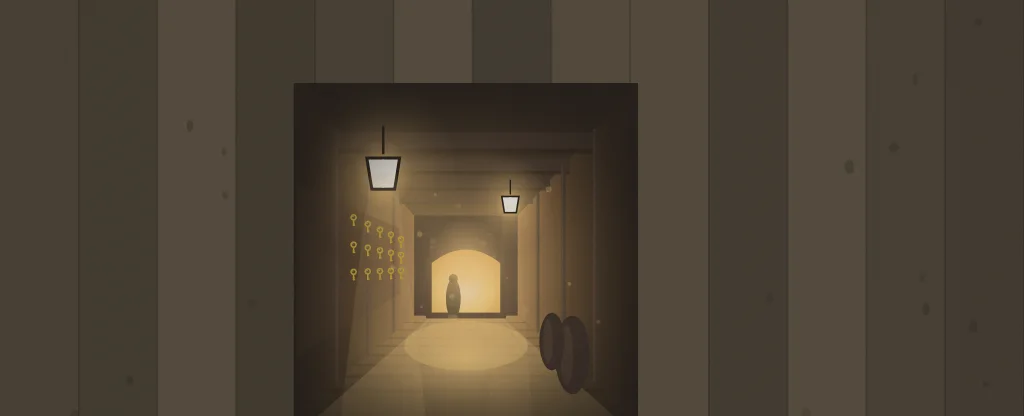
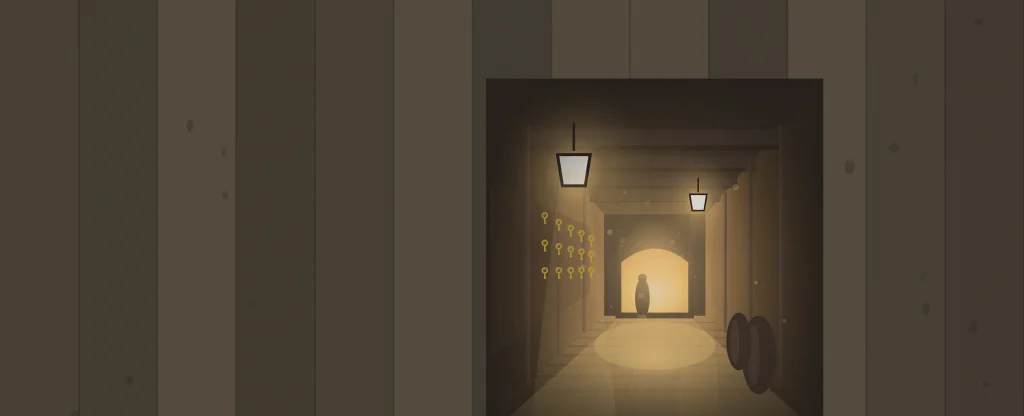
fix(labs/storybook): the arch and the rank finally meet — family rises framed in the lit archway
The arch cut in the art straddled the spine (x -0.05) while the rank
stood at the declared +0.26; the designed climax never happened. Both
move to x 0.145 — a measured fold-flat wall, not taste: the rank's
hinge chord (0.16*cos30 = 0.1386) must lie in x >= 0 at book-closed,
which kills the ruled 0.11. Aperture re-derived {centerX 0.145,
halfW 0.15 (the paint always cut 0.148), apexH 0.25 (the balcony deck
hides the wall above ~0.25 at the reading camera — a 0.30 crown
rendered as a headless garage door)}.

Single owner: aperture gains centerX in the declaration; the bench's
arch gates derive from it, and a new D gate loads the shipped atlas
sprite, finds the alpha hole's centroid/half-width/crown, and asserts
them against the declaration within 0.02 — run against the old art it
reproduces the original drift exactly. R gates hold at the new x
(travel 125.9 px = 14.0% frame height). One pre-existing test failure
incidentally fixed (rank no longer overlaps the dissolve rack).

Changed region(s): [[0.2812, 0.1875, 0.8125, 1.0]]

diff --git a/components/labs/storybook/content.ts b/components/labs/storybook/content.ts
@@ -227,21 +227,55 @@ const CH1_LAYERS: readonly SceneLayer[] = [
       // THE HALL — the wall that breaks the page. Its facade plate is the
       // DIE-CUT CARRIAGE ARCH: aperture in this engine is alpha in the painted
       // art, not punched geometry, so the hole is baked by generate-art.mjs and
-      // the `aperture` field records what the painter must cut. THE ARCH IS
-      // CENTRED AT x = +0.26 (world), not on the spine: it has to sit where the
-      // arrival rank can physically stand, and a rank centred on the gutter
-      // would have to straddle both pages. Left masonry 0.10 to the gutter,
-      // right masonry 0.10 to the facade edge.
+      // the `aperture` field records what the painter must cut. THIS FIELD IS
+      // THE SINGLE OWNER of where the hole is (popup-keepstack.ts KeepStorySpec
+      // documents the covenant): the bench derives its arch gates from it AND
+      // re-measures the baked alpha centroid against `centerX`, and the painter
+      // keeps a mirrored constant that names this line as the owner.
+      //
+      // THE ARCH IS CENTRED AT x = +0.145 (world) — plate u 0.6394, since the
+      // plate spans x -0.52..0.52 across u 0..1. Arch and rank now share ONE
+      // number, and it is squeezed from three sides:
+      //  * it cannot sit on the spine (where the paint used to cut it, x -0.05)
+      //    because the arrival rank that has to stand IN it is a right-page
+      //    piece; a rank centred on the gutter would straddle both pages.
+      //  * it cannot sit at the rank's old x +0.26 either: the balcony deck
+      //    spans only x -0.30..0.30, so an arch at 0.26 +- 0.15 would run out
+      //    from under the gallery that is supposed to cantilever over it. That
+      //    caps centerX + halfW at 0.30.
+      //  * AND IT CANNOT GO BELOW 0.139. The rank's hinge chord is
+      //    (width/2)*cos(hingeDeg) = 0.16*cos30 = 0.1386 to each side of
+      //    hingeX, and at book-closed that chord lies IN the right page, where
+      //    x >= 0 is the fold-flat law. Any common centre under 0.1386 hangs
+      //    the closed die over the gutter — measured -0.029 at the 0.11 this
+      //    round was first cut at, which failed F and W in e4s2-reach.mjs.
+      // 0.145 is 0.006 clear of that floor and 0.005 clear of the deck edge:
+      // mouth x -0.005..0.295, the left jamb landing on the spine crease.
+      // Widening halfW to 0.16 (the old declared value) would push the mouth
+      // past the deck; 0.15 keeps 0.011 of jamb clearance around the die, which
+      // is what a 0.32 die inside a 0.30 mouth can afford.
       // THE TRAP (generate-art.mjs:7865): a gate you can see through is only
       // worth having when there is something behind it. The cap stays SOLID at
       // PLATE_LIFT behind the plate and must be painted as a warm lamplit
       // passage receding into the inn — and the arrival rank rises INSIDE the
       // hole so real moving geometry occupies it.
+      //   apexH 0.25 IS A CEILING SET BY THE BALCONY, not by the figure. The
+      // first instinct was to cut the crown at the rank's 0.30 standing height
+      // so the family passes cleanly under it. Baked and captured, that hole
+      // rendered as a rectangular garage door: the deck cantilevers over the
+      // arch and the reading camera looks DOWN, so it hides the wall above
+      // roughly y 0.25 and took the pointed head, the voussoir ring and the
+      // keystone with it. The crown stays in the band the reader can see; the
+      // family is 0.05 taller than it and 0.14 fore of the plate, so at full
+      // pull the heads cross the ring and read as stepping THROUGH the arch —
+      // and at the rest angle (36deg) they sit at y 0.176, well inside.
+      // Mouth: 0.30 wide x 0.25 tall over a 0.32-wide die whose skewed chord
+      // measures 0.277 across.
       {
         key: 'hall', a: 0.52, height: 0.36, z0: -0.23, z1: 0.23,
         roof: 'flat', capFront: true, capBack: true,
         plate: { width: 1.04, height: 0.36 },
-        aperture: { halfW: 0.16, apexH: 0.3 },
+        aperture: { centerX: 0.145, halfW: 0.15, apexH: 0.25 },
         stage: { t0: 0.1, t1: 0.32 },
       },
       // THE GUEST FLOOR — the star. Heavy dark timber over warm cream plaster,
@@ -321,10 +355,22 @@ const CH1_LAYERS: readonly SceneLayer[] = [
   // PAYOFF ONE, phase 0.00-0.55 — THE ARRIVAL RANK. The innkeeper with a
   // lantern, spouse with the enchanted ledger, waving child, dog: one linked
   // die-cut chain stood up by a hidden strip under the floor (law L5). It
-  // stands INSIDE THE CARRIAGE ARCH — standing x 0.121..0.399 against the
-  // aperture's 0.10..0.42, 0.30 tall under a 0.30 keystone — so the die-cut
+  // stands INSIDE THE CARRIAGE ARCH — standing x 0.006..0.284 against the
+  // aperture's -0.005..0.295, 0.30 tall under a 0.30 keystone — so the die-cut
   // hole has real moving geometry in it, and the gallery deck at y 0.36 hangs
   // directly over the family's heads.
+  //   THE x MOVED, and the whole x triple moved with it. Rounds 1-3 declared
+  // this rank at hingeX 0.26 to match an arch the comments said was at +0.26
+  // while the PAINT cut it at -0.05, so the family rose beside the hole instead
+  // of inside it. Arch and rank now meet at the one owned number,
+  // `aperture.centerX` = 0.145: hingeX 0.145, and anchor/slot shifted by the
+  // same -0.115 so the strip geometry is congruent, not re-tuned. 0.145 is also
+  // the FLOOR the fold-flat law leaves: at hingeX 0.1386 the closed die's own
+  // hinge chord touches the gutter (see the aperture note above).
+  // Every z, the -30 skew and the [36,90] travel are BIT-IDENTICAL — the
+  // z-clearance and visibility findings below are x-independent, and the R
+  // gates re-measure at the new x (travel is unchanged: the skew, not the
+  // station, is what the camera reads).
   //   hingeZ 0.37, not the 0.30 the first pass tried: the hall's FRONT CAP
   // bulges its crease fore to z1 + a*cos(beta/2) as the book leaves full open,
   // which at beta 165deg puts the cap at z 0.298 — a standing rank hinged at
@@ -354,7 +400,7 @@ const CH1_LAYERS: readonly SceneLayer[] = [
   // `driveFrom` is the delayed double action: this piece has no channel of its
   // own, it reads the dissolve's and remaps it through [0, 0.55], so the reader
   // pulling the brass tab raises the family first and flips the floor second.
-  { id: 'ch1-arrival-rank', kind: 'midground', role: 'figure', mech: 'stripflap', side: 'right', anchor: 0.22, anchorZ: 0.37, slot: 0.3, slotZ: 0.37, hingeX: 0.26, hingeZ: 0.37, hingeDeg: -30, width: 0.32, height: 0.3, restDeg: 36, travelDeg: [36, 90], driveFrom: { channel: 'ch1-arrival-floor', phase: [0, 0.55] } },
+  { id: 'ch1-arrival-rank', kind: 'midground', role: 'figure', mech: 'stripflap', side: 'right', anchor: 0.105, anchorZ: 0.37, slot: 0.185, slotZ: 0.37, hingeX: 0.145, hingeZ: 0.37, hingeDeg: -30, width: 0.32, height: 0.3, restDeg: 36, travelDeg: [36, 90], driveFrom: { channel: 'ch1-arrival-floor', phase: [0, 0.55] } },
   // PAYOFF TWO, phase 0.40-1.00 — THE COURTYARD. A page-flat venetian rack the
   // reader flips A->B: cold slate cobbles, empty, to lamplight pools, cast
   // shadows, wheel-tracks and a trail of brass keys leading to the arch. The

diff --git a/components/labs/storybook/book/popup-keepstack.ts b/components/labs/storybook/book/popup-keepstack.ts
@@ -102,11 +102,27 @@ export type KeepStorySpec = {
    *  (popup-oanave.ts). Aperture in this engine is ALPHA IN THE PAINTED ART,
    *  not punched geometry: this field cuts nothing, it records for the painter
    *  and for the covenant test WHERE the hole in this story's facade plate is.
-   *  `halfW` across the plate crease, `apexH` up the plate from its base edge,
-   *  both in world units and both inside the plate's own width/2 x height box.
+   *
+   *  THIS DECLARATION IS THE SINGLE OWNER OF THE HOLE'S POSITION. It drifted
+   *  once — the painter cut at world x -0.05 while content, its comments and
+   *  the bench all said +0.26, so the figure meant to rise INSIDE the arch rose
+   *  next to it and nobody noticed for three rounds. Consumers must now DERIVE
+   *  from these three numbers, never restate them:
+   *    - `scripts/storybook/bench/e4s2-reach.mjs` reads them for its arch gates
+   *      AND re-measures the baked alpha centroid of the generated plate
+   *      against `centerX`, so art/declaration drift fails the bench;
+   *    - `scripts/storybook/generate-art.mjs` cannot import TS, so it keeps a
+   *      mirrored `APERTURE` constant that names this field as the owner.
+   *
+   *  `centerX` is the hole's centre in WORLD x on the assembled plate: the
+   *  plate spans x -width/2 .. +width/2 across art u 0..1, so
+   *  `u = 0.5 + centerX / plate.width`. `halfW` is across the plate crease and
+   *  `apexH` up the plate from its base edge (art v measured from the BOTTOM,
+   *  so `v = apexH / plate.height`) — all three in world units, all three
+   *  inside the plate's own width/2 x height box.
    *  The box's front CAP stays solid behind the plate at PLATE_LIFT, so the
    *  hole shows real paper at a real depth offset rather than the background. */
-  aperture?: { halfW: number; apexH: number }
+  aperture?: { centerX: number; halfW: number; apexH: number }
 }
 
 /** The jutting gold dispatch balcony — a deck riding the ground story's flat

diff --git a/components/labs/storybook/book/popup-keepstack-merged.tsx b/components/labs/storybook/book/popup-keepstack-merged.tsx
@@ -182,9 +182,12 @@ export function keepSlots(layer: SceneLayer & KeepStackGeom): Slot[] {
         // die-cut arch is, so the one surface the reader is meant to see through
         // the hole showed its two darkest margins (measured: the arch read as
         // near-black murk at rest). With the split the `-side` painting is drawn
-        // ONCE across the whole cap and its vanishing point (u 0.455) lands
-        // inside the aperture (plate u 0.311..0.599), as innPassage's own header
-        // note always assumed. Only the backbone (asset null) still tiles full.
+        // ONCE across the whole cap, so cap u IS plate u and the passage's
+        // vanishing axis lands inside the aperture by construction: both are
+        // derived from the SAME declared `aperture.centerX` (currently x +0.11,
+        // u 0.606, mouth u 0.452..0.760), which is the field the bench's D gate
+        // re-measures against the baked pixels. Only the backbone (asset null)
+        // still tiles full.
         uvs:
           asset !== null
             ? new Float32Array([u0, 0, u1, 0, u1, 1, u0, 1])
